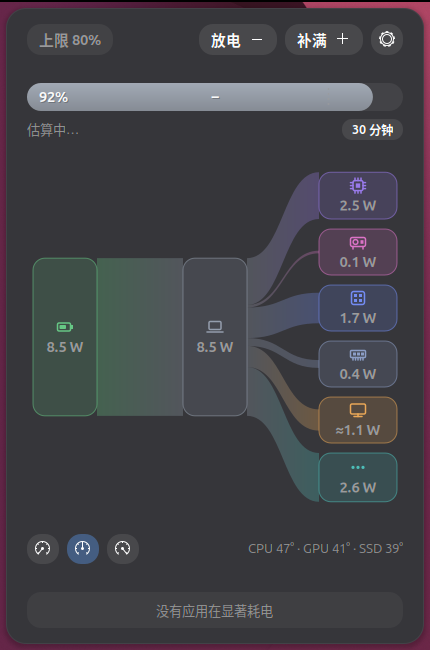
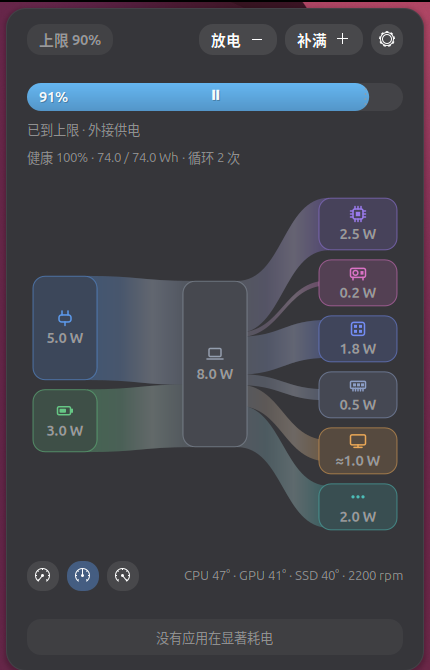
Seamless Sankey bands: clip under node cards, opaque group composite with overlap

diff --git a/extension/clearpower@lhc/sankey.js b/extension/clearpower@lhc/sankey.js
@@ -307,21 +307,32 @@ class Sankey extends St.DrawingArea {
         const m = this._model(s);
         const scale = this._layout(m, W, H);
 
-        // Bands: soft two-colour gradient plus (optionally) a slow travelling sheen.
+        // Bands. Seam-free recipe: (1) clip away the node cards so bands slide under their
+        // rounded outlines, (2) paint every band opaque into one group with a hair of overlap,
+        // (3) composite the group once at 30 % — no antialiased edges between neighbours.
         const sheen = this._active && this._sheenEnabled();
+        const R = 12, EXT = 10, OVERLAP = 0.35;
+        cr.save();
+        cr.rectangle(0, 0, W, H);
+        for (const n of Object.values(m.nodes))
+            roundRect(cr, n.x, n.y, n.w_px, n.h, R);
+        cr.setFillRule(Cairo.FillRule.EVEN_ODD);
+        cr.clip();
+        cr.pushGroup();
         for (const f of m.flows) {
             const a = m.nodes[f.a], b = m.nodes[f.b];
+            const t = Math.max(f.w * scale, 2);
             const band = {
-                x0: a.x + a.w_px, y0: a.y + a.outOff,
-                x1: b.x, y1: b.y + b.inOff,
-                t: Math.max(f.w * scale, 2),
+                x0: a.x + a.w_px - EXT, y0: a.y + a.outOff - OVERLAP,
+                x1: b.x + EXT, y1: b.y + b.inOff - OVERLAP,
+                t: t + 2 * OVERLAP,
             };
-            a.outOff += band.t;
-            b.inOff += band.t;
+            a.outOff += t;
+            b.inOff += t;
             this._traceBand(cr, band);
             const g = new Cairo.LinearGradient(band.x0, 0, band.x1, 0);
-            g.addColorStopRGBA(0, ...a.color, 0.30);
-            g.addColorStopRGBA(1, ...b.color, 0.30);
+            g.addColorStopRGBA(0, ...a.color, 1);
+            g.addColorStopRGBA(1, ...b.color, 1);
             cr.setSource(g);
             cr.fill();
             if (sheen) {
@@ -333,12 +344,15 @@ class Sankey extends St.DrawingArea {
                     .sort((p, q) => p - q);
                 const sg = new Cairo.LinearGradient(band.x0, 0, band.x1, 0);
                 for (const x of stops)
-                    sg.addColorStopRGBA(x, 1, 1, 1, 0.16 * tri(x));
+                    sg.addColorStopRGBA(x, 1, 1, 1, 0.5 * tri(x));
                 this._traceBand(cr, band);
                 cr.setSource(sg);
                 cr.fill();
             }
         }
+        cr.popGroupToSource();
+        cr.paintWithAlpha(0.32);
+        cr.restore();
 
         this._paintNodeLayer(cr, m, W, H, node, fg);
         cr.$dispose();
